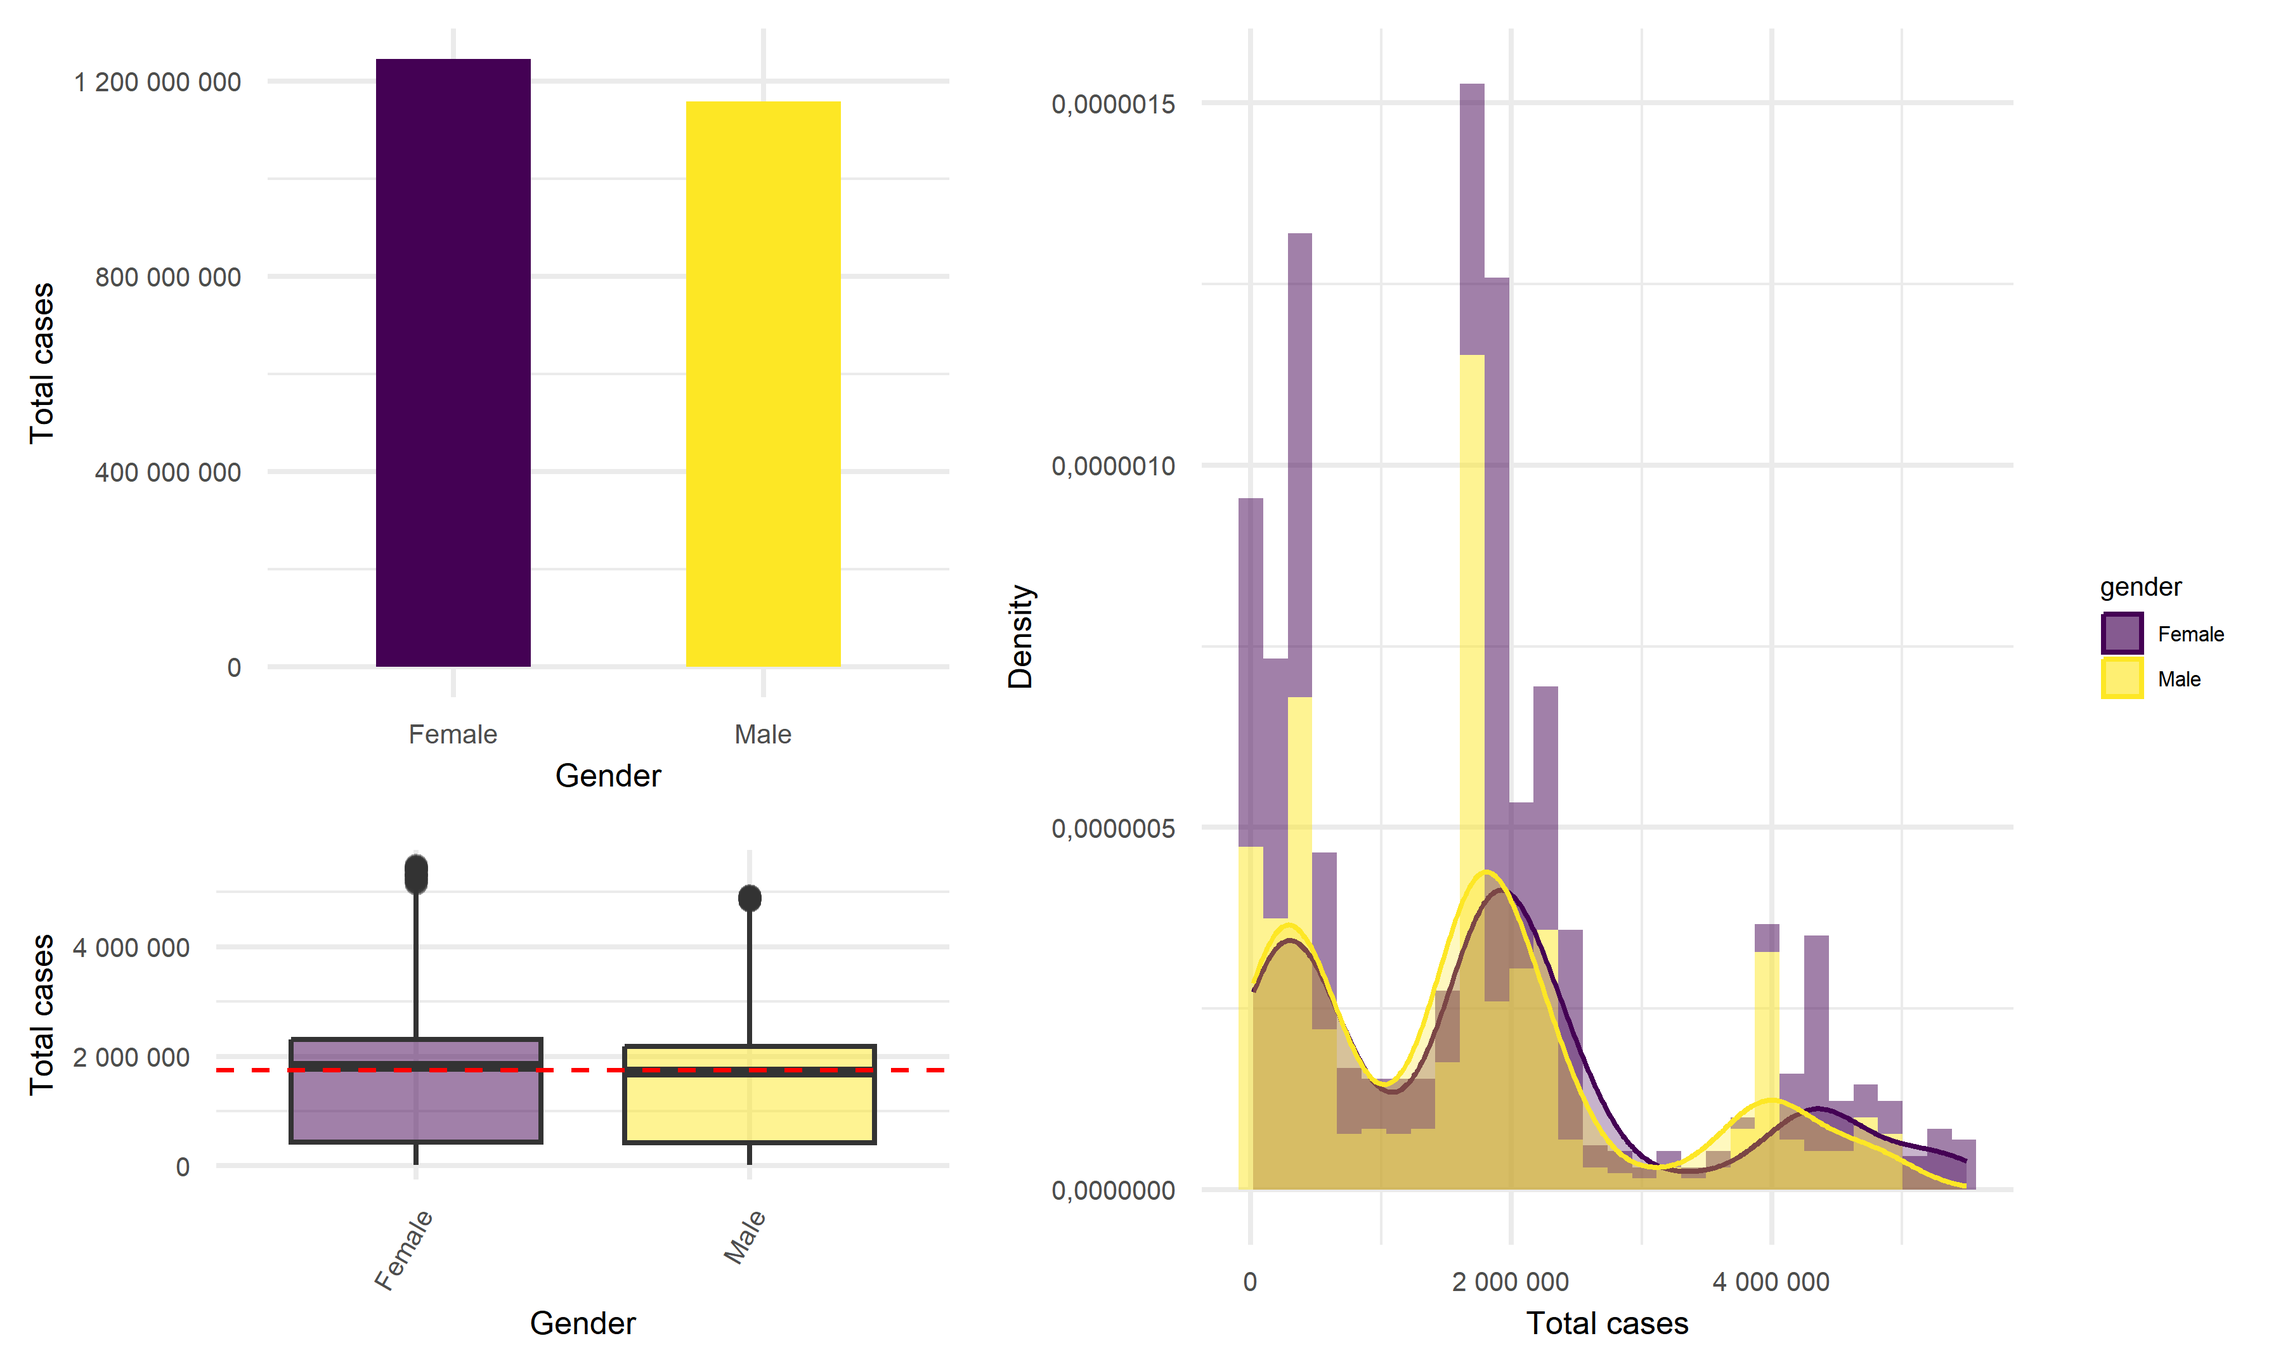
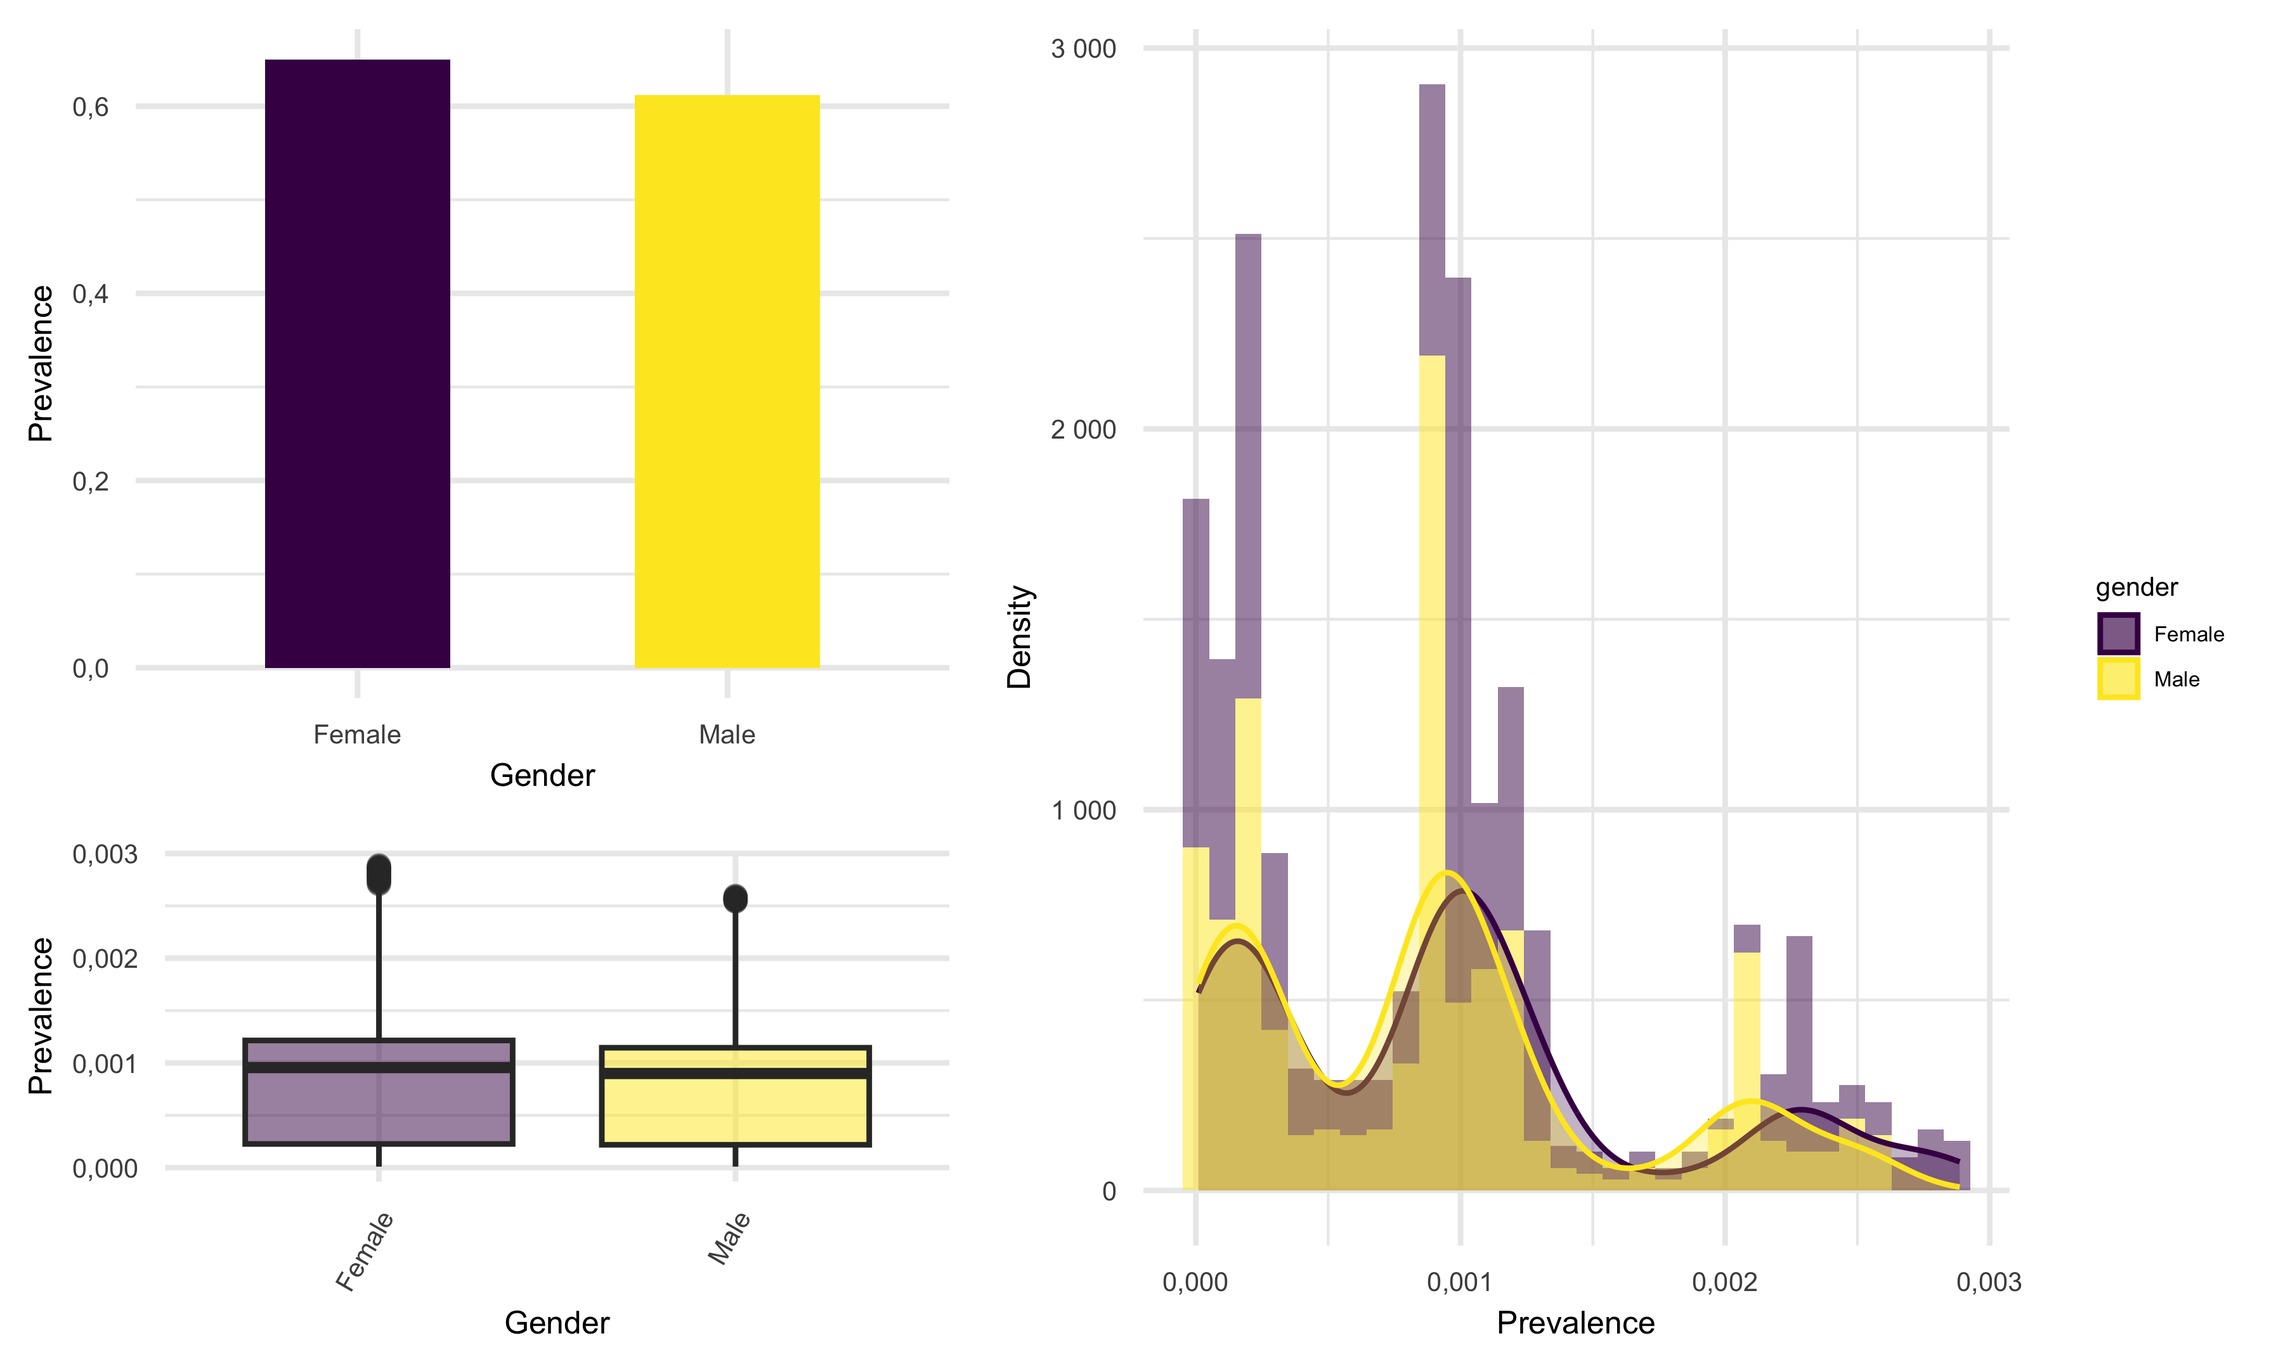
Commit - Add descriptions to demographic and amend graphs(prevalence)

diff --git a/graph3.html b/graph3.html
@@ -13,7 +13,7 @@
 
 <title>Association Between Predictors and Outcomes</title>
 
-<script src="site_libs/header-attrs-2.16/header-attrs.js"></script>
+<script src="site_libs/header-attrs-2.17/header-attrs.js"></script>
 <script src="site_libs/jquery-3.6.0/jquery-3.6.0.min.js"></script>
 <meta name="viewport" content="width=device-width, initial-scale=1" />
 <link href="site_libs/bootstrap-3.3.5/css/journal.min.css" rel="stylesheet" />
@@ -184,8 +184,8 @@ $(document).ready(function () {
   border-radius: 4px;
 }
 
-.tabset-dropdown > .nav-tabs > li.active:before {
-  content: "";
+.tabset-dropdown > .nav-tabs > li.active:before, .tabset-dropdown > .nav-tabs.nav-tabs-open:before {
+  content: "\e259";
   font-family: 'Glyphicons Halflings';
   display: inline-block;
   padding: 10px;
@@ -193,16 +193,9 @@ $(document).ready(function () {
 }
 
 .tabset-dropdown > .nav-tabs.nav-tabs-open > li.active:before {
-  content: "&#xe258;";
-  border: none;
-}
-
-.tabset-dropdown > .nav-tabs.nav-tabs-open:before {
-  content: "";
+  content: "\e258";
   font-family: 'Glyphicons Halflings';
-  display: inline-block;
-  padding: 10px;
-  border-right: 1px solid #ddd;
+  border: none;
 }
 
 .tabset-dropdown > .nav-tabs > li.active {
@@ -423,20 +416,22 @@ Outcomes</h1>
 </div>
 
 
-<div id="total-cases-vs-age" class="section level2">
-<h2>Total Cases vs Age</h2>
+<div id="prevalence-vs-age" class="section level2">
+<h2>Prevalence vs Age</h2>
 <pre class="r"><code>point &lt;- format_format(big.mark = &quot; &quot;, decimal.mark = &quot;,&quot;, scientific = FALSE)
 grid.arrange(
  
     age %&gt;% 
-    ggplot(aes(x = age_group, y = total_cases, fill = age_group)) +
+    group_by(age_group) %&gt;%
+    summarise(prevalence = sum(total_cases)/(mean(percent_of_ca_population)*38066920)) %&gt;%  # California total population = 38066920
+    ggplot(aes(x = age_group, y = prevalence, fill = age_group)) +
     geom_bar(stat = &quot;identity&quot;, width = 0.5) +
     scale_fill_viridis(discrete = TRUE) +
     theme(
       legend.position = &quot;none&quot;
     ) +
     xlab(&quot;Age&quot;) +
-    ylab(&quot;Total cases&quot;) +
+    ylab(&quot;Prevalence&quot;) +
     theme(legend.title = element_text(size = 5),
           legend.key.size = unit(0.3, &#39;cm&#39;),
           legend.text = element_text(size = 4)) +
@@ -449,11 +444,12 @@ grid.arrange(
     
 
     age %&gt;% 
-    ggplot(aes(x = total_cases, fill = age_group)) +
+    mutate(prevalence = total_cases/(mean(percent_of_ca_population)*38066920)) %&gt;%  # California total population = 38066920
+    ggplot(aes(x = prevalence, fill = age_group)) +
     geom_histogram(aes(y = ..density..), alpha = 0.5, bins = 50) +
     geom_density(alpha = 0.3, aes(color = age_group)) +
     scale_color_viridis(discrete = TRUE) +
-    labs(x = &quot;Total cases&quot;,
+    labs(x = &quot;Prevalence&quot;,
          y = &quot;Density&quot;) +
     theme(legend.position = &quot;right&quot;) +
     theme(legend.title = element_text(size = 5),
@@ -469,15 +465,17 @@ grid.arrange(
     
     
     age %&gt;%
-    ggplot(aes(x = age_group, y = total_cases, fill = age_group)) +
+    mutate(prevalence = total_cases/(mean(percent_of_ca_population)*38066920),
+           median_prevalence = mean(prevalence)) %&gt;%  # California total population = 38066920
+    ggplot(aes(x = age_group, y = prevalence, fill = age_group)) +
     geom_boxplot(alpha = 0.5) +
-    geom_hline(yintercept = median(age$total_cases, na.rm = T), color = &quot;red&quot;, size = 0.4, lty = &quot;dashed&quot;) +
+    geom_hline(yintercept = age$median_prevalence, color = &quot;red&quot;, size = 0.4, lty = &quot;dashed&quot;) +
     scale_fill_viridis(discrete = TRUE) +
     theme(
       legend.position = &quot;none&quot;
     ) +
     xlab(&quot;Age&quot;) +
-    ylab(&quot;Total cases&quot;) +
+    ylab(&quot;Prevalence&quot;) +
         theme(legend.title = element_text(size = 5),
           legend.key.size = unit(0.3, &#39;cm&#39;),
           legend.text = element_text(size = 4)) +
@@ -496,20 +494,22 @@ layout_matrix = rbind(c(1, 1, 1, 2, 2, 2, 2),
 ))</code></pre>
 <p><img src="graph3_files/figure-html/unnamed-chunk-2-1.png" width="90%" /></p>
 </div>
-<div id="total-cases-vs-gender" class="section level2">
-<h2>Total Cases vs Gender</h2>
+<div id="prevalence-vs-gender" class="section level2">
+<h2>Prevalence vs Gender</h2>
 <pre class="r"><code>point &lt;- format_format(big.mark = &quot; &quot;, decimal.mark = &quot;,&quot;, scientific = FALSE)
 grid.arrange(
  
     gender %&gt;% 
-    ggplot(aes(x = gender, y = total_cases, fill = gender)) +
+    group_by(gender) %&gt;%
+    summarise(prevalence = sum(total_cases)/(mean(percent_of_ca_population)*38066920)) %&gt;%  # California total population = 38066920
+    ggplot(aes(x = gender, y = prevalence, fill = gender)) +
     geom_bar(stat = &quot;identity&quot;, width = 0.5) +
     scale_fill_viridis(discrete = TRUE) +
     theme(
       legend.position = &quot;none&quot;
     ) +
     xlab(&quot;Gender&quot;) +
-    ylab(&quot;Total cases&quot;) +
+    ylab(&quot;Prevalence&quot;) +
     theme(legend.title = element_text(size = 5),
           legend.key.size = unit(0.3, &#39;cm&#39;),
           legend.text = element_text(size = 4)) +
@@ -521,11 +521,12 @@ grid.arrange(
     scale_y_continuous(labels = point),
 
     gender %&gt;% 
-    ggplot(aes(x = total_cases, fill = gender)) +
+    mutate(prevalence = total_cases/(mean(percent_of_ca_population)*38066920)) %&gt;%  # California total population = 38066920
+    ggplot(aes(x = prevalence, fill = gender)) +
     geom_histogram(aes(y = ..density..), alpha = 0.5, bins = 30) +
     geom_density(alpha = 0.3, aes(color = gender)) +
     scale_color_viridis(discrete = TRUE) +
-    labs(x = &quot;Total cases&quot;,
+    labs(x = &quot;Prevalence&quot;,
          y = &quot;Density&quot;) +
     theme(legend.position = &quot;right&quot;) +
     theme(legend.title = element_text(size = 5),
@@ -542,15 +543,16 @@ grid.arrange(
     
     
     gender %&gt;%
-    ggplot(aes(x = gender, y = total_cases, fill = gender)) +
+    mutate(prevalence = total_cases/(mean(percent_of_ca_population)*38066920)) %&gt;%  # California total population = 38066920 
+    ggplot(aes(x = gender, y = prevalence, fill = gender)) +
     geom_boxplot(alpha = 0.5) +
-    geom_hline(yintercept = median(gender$total_cases, na.rm = T), color = &quot;red&quot;, size = 0.4, lty = &quot;dashed&quot;) +
+    geom_hline(yintercept = median(gender$prevalence, na.rm = T), color = &quot;red&quot;, size = 0.4, lty = &quot;dashed&quot;) +
     scale_fill_viridis(discrete = TRUE) +
     theme(
       legend.position = &quot;none&quot;
     ) +
     xlab(&quot;Gender&quot;) +
-    ylab(&quot;Total cases&quot;) +
+    ylab(&quot;Prevalence&quot;) +
         theme(legend.title = element_text(size = 5),
           legend.key.size = unit(0.3, &#39;cm&#39;),
           legend.text = element_text(size = 4)) +
@@ -571,23 +573,25 @@ layout_matrix = rbind(c(1, 1, 1, 2, 2, 2, 2),
 ))</code></pre>
 <p><img src="graph3_files/figure-html/unnamed-chunk-3-1.png" width="90%" /></p>
 </div>
-<div id="total-cases-vs-race" class="section level2">
-<h2>Total Cases vs Race</h2>
+<div id="prevalence-vs-race" class="section level2">
+<h2>Prevalence vs Race</h2>
 <pre class="r"><code>point &lt;- format_format(big.mark = &quot; &quot;, decimal.mark = &quot;,&quot;, scientific = FALSE)
 grid.arrange(
  
     race %&gt;%
+    group_by(race_group) %&gt;%
+    summarise(prevalence = sum(total_cases)/(mean(percent_of_ca_population)*38066920)) %&gt;%  # California total population = 38066920
     mutate(race_group = recode(race_group, &quot;American Indian or Alaska Native&quot; = &quot;Indian/Alaska&quot;,
            &quot;Native Hawaiian and other Pacific Islander&quot; = &quot;Hawaiian/Islander&quot;)) %&gt;% 
-    mutate(race_group = fct_reorder(race_group, total_cases)) %&gt;%
-    ggplot(aes(x = race_group, y = total_cases, fill = race_group)) +
+    mutate(race_group = fct_reorder(race_group, prevalence)) %&gt;%
+    ggplot(aes(x = race_group, y = prevalence, fill = race_group)) +
     geom_bar(stat = &quot;identity&quot;, width = 0.5) +
     scale_fill_viridis(discrete = TRUE) +
     theme(
       legend.position = &quot;none&quot;
     ) +
     xlab(&quot;Race&quot;) +
-    ylab(&quot;Total cases&quot;) +
+    ylab(&quot;Prevalence&quot;) +
     theme(legend.title = element_text(size = 5),
           legend.key.size = unit(0.3, &#39;cm&#39;),
           legend.text = element_text(size = 4)) +
@@ -603,14 +607,15 @@ grid.arrange(
     
 
     race %&gt;% 
+    mutate(prevalence = total_cases/(mean(percent_of_ca_population)*38066920)) %&gt;%  # California total population = 38066920 
     mutate(race_group = recode(race_group, &quot;American Indian or Alaska Native&quot; = &quot;Indian/Alaska&quot;,
            &quot;Native Hawaiian and other Pacific Islander&quot; = &quot;Hawaiian/Islander&quot;)) %&gt;% 
-    mutate(race_group = fct_reorder(race_group, total_cases)) %&gt;%
-    ggplot(aes(x = total_cases, fill = race_group)) +
+    mutate(race_group = fct_reorder(race_group, prevalence)) %&gt;%
+    ggplot(aes(x = prevalence, fill = race_group)) +
     geom_histogram(aes(y = ..density..), alpha = 0.5, bins = 30) +
     geom_density(alpha = 0.1, aes(color = race_group)) +
     scale_color_viridis(discrete = TRUE) +
-    labs(x = &quot;Total cases&quot;,
+    labs(x = &quot;Prevalence&quot;,
          y = &quot;Density&quot;) +
     theme(legend.position = &quot;right&quot;) +
     theme(legend.title = element_text(size = 5),
@@ -621,26 +626,27 @@ grid.arrange(
           axis.text.x = element_text(size = 5),
           axis.title.y = element_text(size = 6),
           axis.text.y = element_text(size = 5)) + 
-    xlim(0, 2.5e6) +   
-    ylim(0, 1.5e-5),
+          ylim(0, 5000) +
+          xlim(0, 0.0035),
    
     
 
 
 race %&gt;%
-    mutate(race_group = fct_reorder(race_group, total_cases)) %&gt;% 
+    mutate(prevalence = total_cases/(mean(percent_of_ca_population)*38066920)) %&gt;%  # California total population = 38066920 
+    mutate(race_group = fct_reorder(race_group, prevalence)) %&gt;% 
     mutate(race_group = recode(race_group, &quot;American Indian or Alaska Native&quot; = &quot;Indian/Alaska&quot;,
            &quot;Native Hawaiian and other Pacific Islander&quot; = &quot;Hawaiian/Islander&quot;)) %&gt;% 
-    ggplot(aes(x = race_group, y = total_cases, fill = race_group)) +
+    ggplot(aes(x = race_group, y = prevalence, fill = race_group)) +
     geom_boxplot(alpha = 0.5) +
-    geom_hline(yintercept = median(race$total_cases, na.rm = T), color = &quot;red&quot;, size = 0.4, lty = &quot;dashed&quot;) +
+    geom_hline(yintercept = median(race$prevalence, na.rm = T), color = &quot;red&quot;, size = 0.4, lty = &quot;dashed&quot;) +
     ylim(0, 30000) +
     scale_fill_viridis(discrete = TRUE) +
     theme(
       legend.position = &quot;none&quot;
     ) +
     xlab(&quot;Race&quot;) +
-    ylab(&quot;Total cases&quot;) +
+    ylab(&quot;Prevalence&quot;) +
         theme(legend.title = element_text(size = 5),
           legend.key.size = unit(0.3, &#39;cm&#39;),
           legend.text = element_text(size = 4)) +
@@ -662,10 +668,12 @@ layout_matrix = rbind(c(1, 1, 1, 2, 2, 2, 2),
 ))</code></pre>
 <p><img src="graph3_files/figure-html/unnamed-chunk-4-1.png" width="90%" /></p>
 </div>
-<div id="age-race-gender-vs-death-rate" class="section level2">
-<h2>Age, Race, Gender vs Death Rate</h2>
+<div id="death-rate-vs-age-gender-race" class="section level2">
+<h2>Death Rate vs Age, Gender, Race</h2>
 <pre class="r"><code>age_death =
-   age %&gt;% 
+    age %&gt;% 
+    group_by(age_group) %&gt;%
+    summarise(percent_deaths = mean(percent_deaths)/100) %&gt;%
     ggplot(aes(x = age_group, y = percent_deaths, fill = age_group)) +
     geom_bar(stat = &quot;identity&quot;, width = 0.5) +
     scale_fill_viridis(discrete = TRUE) +
@@ -684,9 +692,10 @@ layout_matrix = rbind(c(1, 1, 1, 2, 2, 2, 2),
           axis.text.y = element_text(size = 5)) +
           scale_y_continuous(labels = point)
 
-
 gender_death =
     gender %&gt;% 
+    group_by(gender) %&gt;%
+    summarise(percent_deaths = mean(percent_deaths)/100) %&gt;%
     ggplot(aes(x = gender, y = percent_deaths, fill = gender)) +
     geom_bar(stat = &quot;identity&quot;, width = 0.5) +
     scale_fill_viridis(discrete = TRUE) +
@@ -704,8 +713,11 @@ gender_death =
           axis.title.y = element_text(size = 6),
           axis.text.y = element_text(size = 5)) +
           scale_y_continuous(labels = point)
+
 race_death =
     race %&gt;%
+    group_by(race_group) %&gt;%
+    summarise(percent_deaths = mean(percent_deaths)/100) %&gt;%
     mutate(race_group = recode(race_group, &quot;American Indian or Alaska Native&quot; = &quot;Indian/Alaska&quot;,
            &quot;Native Hawaiian and other Pacific Islander&quot; = &quot;Hawaiian/Islander&quot;)) %&gt;% 
     mutate(race_group = fct_reorder(race_group, percent_deaths)) %&gt;%

diff --git a/graph2.html b/graph2.html
@@ -13,7 +13,7 @@
 
 <title>Outcome by Demographics</title>
 
-<script src="site_libs/header-attrs-2.16/header-attrs.js"></script>
+<script src="site_libs/header-attrs-2.17/header-attrs.js"></script>
 <script src="site_libs/jquery-3.6.0/jquery-3.6.0.min.js"></script>
 <meta name="viewport" content="width=device-width, initial-scale=1" />
 <link href="site_libs/bootstrap-3.3.5/css/journal.min.css" rel="stylesheet" />
@@ -184,8 +184,8 @@ $(document).ready(function () {
   border-radius: 4px;
 }
 
-.tabset-dropdown > .nav-tabs > li.active:before {
-  content: "";
+.tabset-dropdown > .nav-tabs > li.active:before, .tabset-dropdown > .nav-tabs.nav-tabs-open:before {
+  content: "\e259";
   font-family: 'Glyphicons Halflings';
   display: inline-block;
   padding: 10px;
@@ -193,16 +193,9 @@ $(document).ready(function () {
 }
 
 .tabset-dropdown > .nav-tabs.nav-tabs-open > li.active:before {
-  content: "&#xe258;";
-  border: none;
-}
-
-.tabset-dropdown > .nav-tabs.nav-tabs-open:before {
-  content: "";
+  content: "\e258";
   font-family: 'Glyphicons Halflings';
-  display: inline-block;
-  padding: 10px;
-  border-right: 1px solid #ddd;
+  border: none;
 }
 
 .tabset-dropdown > .nav-tabs > li.active {
@@ -422,6 +415,26 @@ div.tocify {
 </div>
 
 
+<p>Summarizing data by key demographic variables provides a
+comprehensive characterization of the outbreak, such as geographic
+distribution (place) and the populations (persons) affected by the
+disease. Characterization of the outbreak by person provides a
+description of whom the case-patients are and who is at risk of COVID.
+Person characteristics that are usually described include both host
+characteristics (age, gender, race and medical status) and possible
+exposures (occupations, physical activities, medications, tobacco, and
+drugs). Both of these influence susceptibility to disease and
+opportunities for exposure.</p>
+<p>The three most commonly described host characteristics are age,
+gender, and race because they are easily collected information and
+because they are often closely related to exposure and to the risk of
+disease. Epidemiological studies often use inclusion or exclusion
+criteria that explicitly restrict study populations to a specific subset
+for each of these variables. Then, the following cstratification
+analysis may be possibly used to reduce bias.</p>
+<p>In this project, we found it interesting to discuss the different
+COVID responses under different host characteristics (age, gender, and
+race) of the population at risk in California.</p>
 <div id="total-cases" class="section level1">
 <h1>1. Total cases</h1>
 <div id="a.-daily-growth-rate-of-total-cases-by-age"
